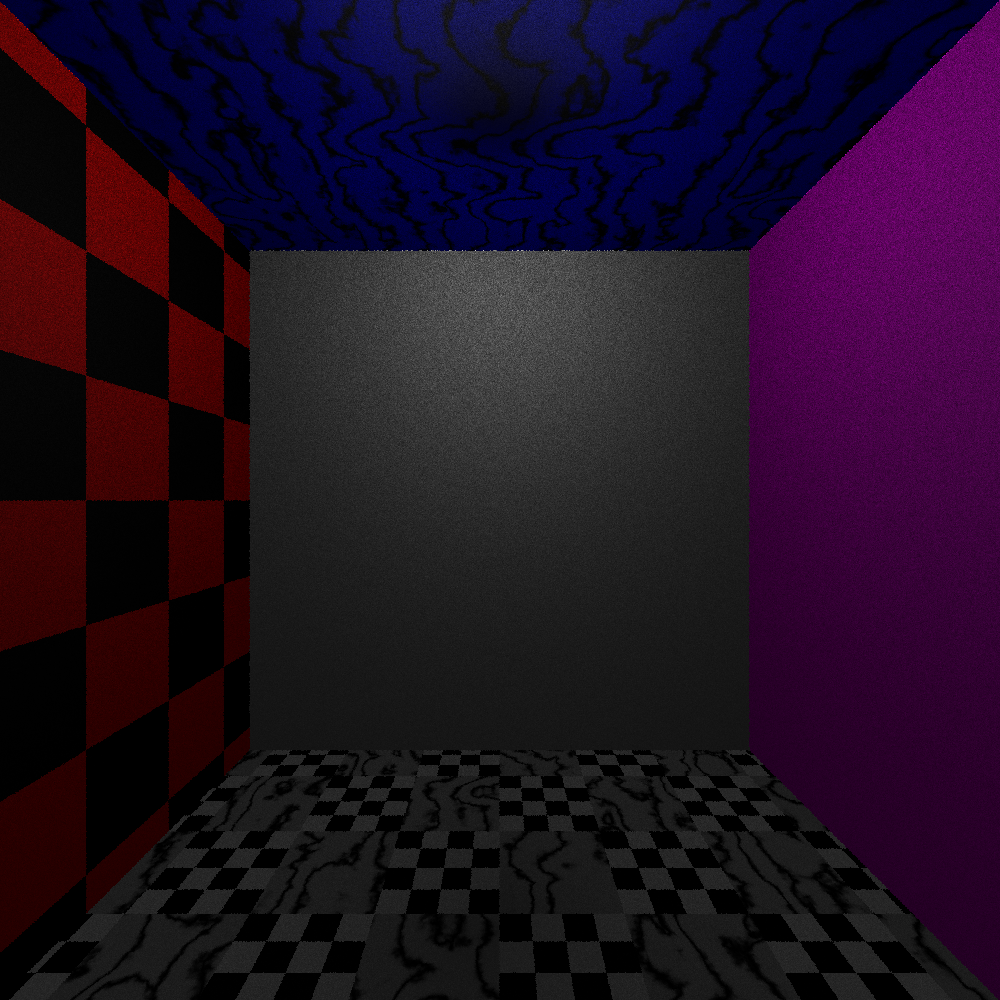
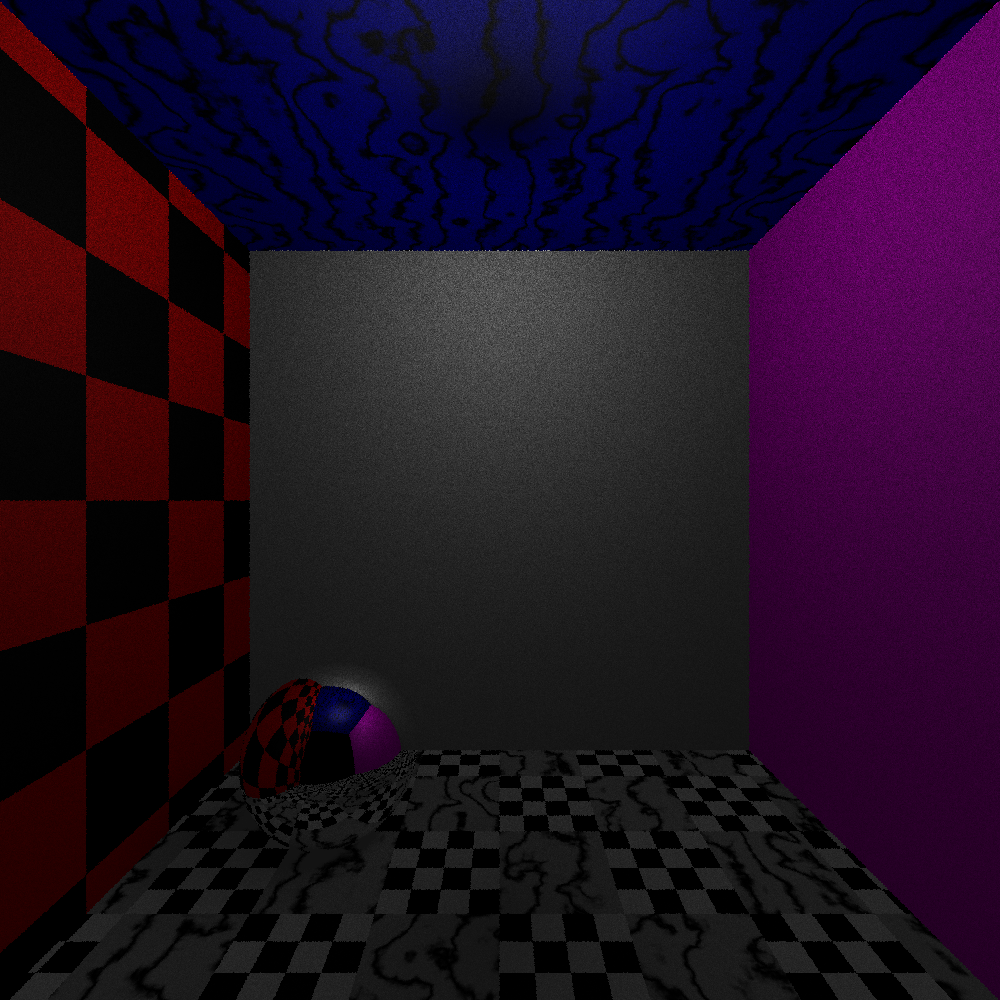
tune box

diff --git a/src/tracer/scene.rs b/src/tracer/scene.rs
@@ -128,6 +128,17 @@ impl Scene {
                         Perlin::new(DVec3::new(0.0, 0.0, 1.0))
                     )),
                 ),
+                // background
+                Plane::new(
+                    DVec3::new(0.0, 0.0, 0.1),
+                    DVec3::new(0.0, 0.0, -1.0),
+                    Material::Blank,
+                ),
+                Sphere::new(
+                    DVec3::new(-0.4, -0.6, -1.2),
+                    0.2,
+                    Material::Mirror,
+                ),
             ],
         )
     }

diff --git a/src/tracer/material.rs b/src/tracer/material.rs
@@ -12,6 +12,7 @@ pub enum Material {
     Mirror,
     Glass,
     Blank, // used for recursive objects. make translucent?
+    /* yes, can use it as black background with plane */
 }
 
 impl Material {
@@ -28,7 +29,7 @@ impl Material {
 
     pub fn is_translucent(&self) -> bool {
         match self {
-            Self::Glass => true,
+            Self::Glass | Self::Blank => true,
             _ => false,
         }
     }
